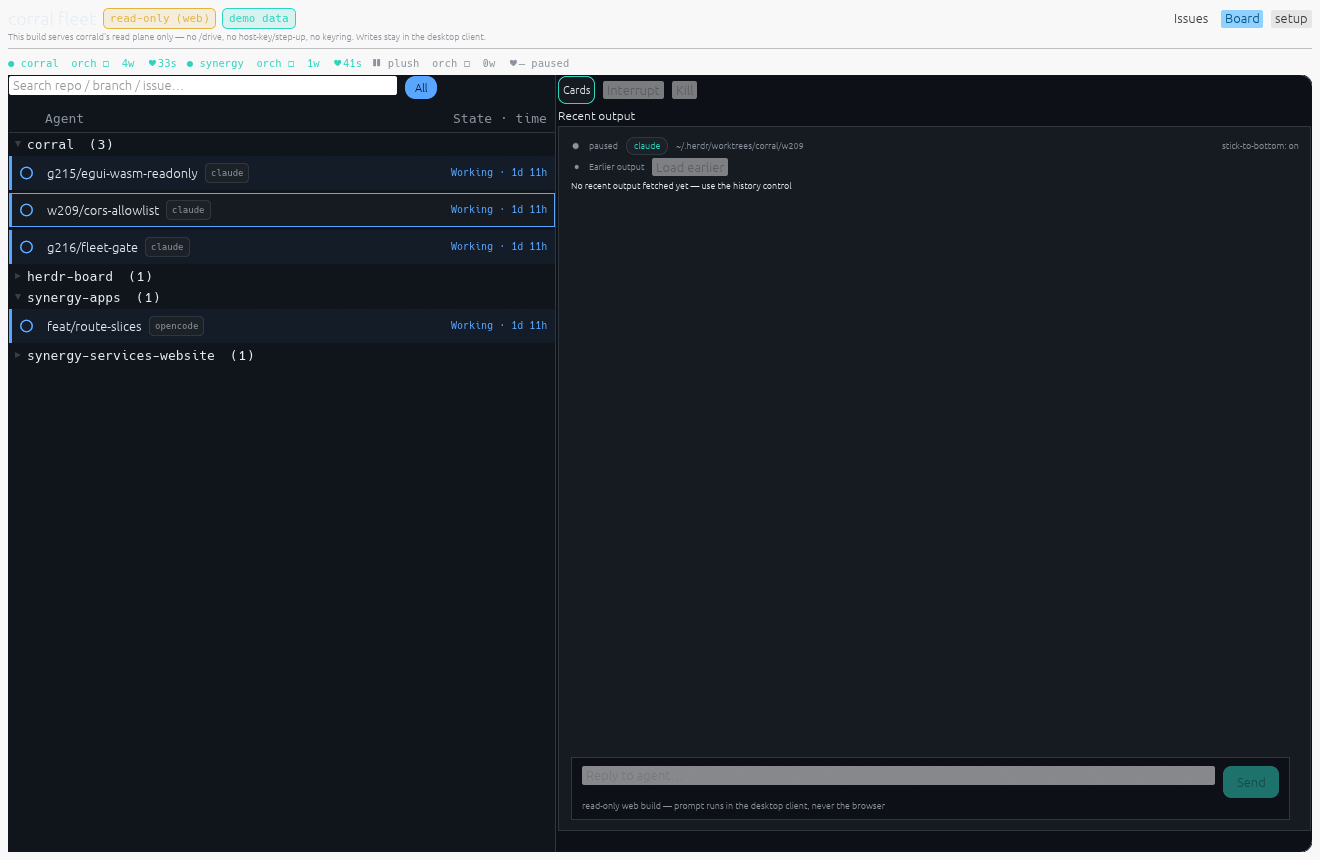
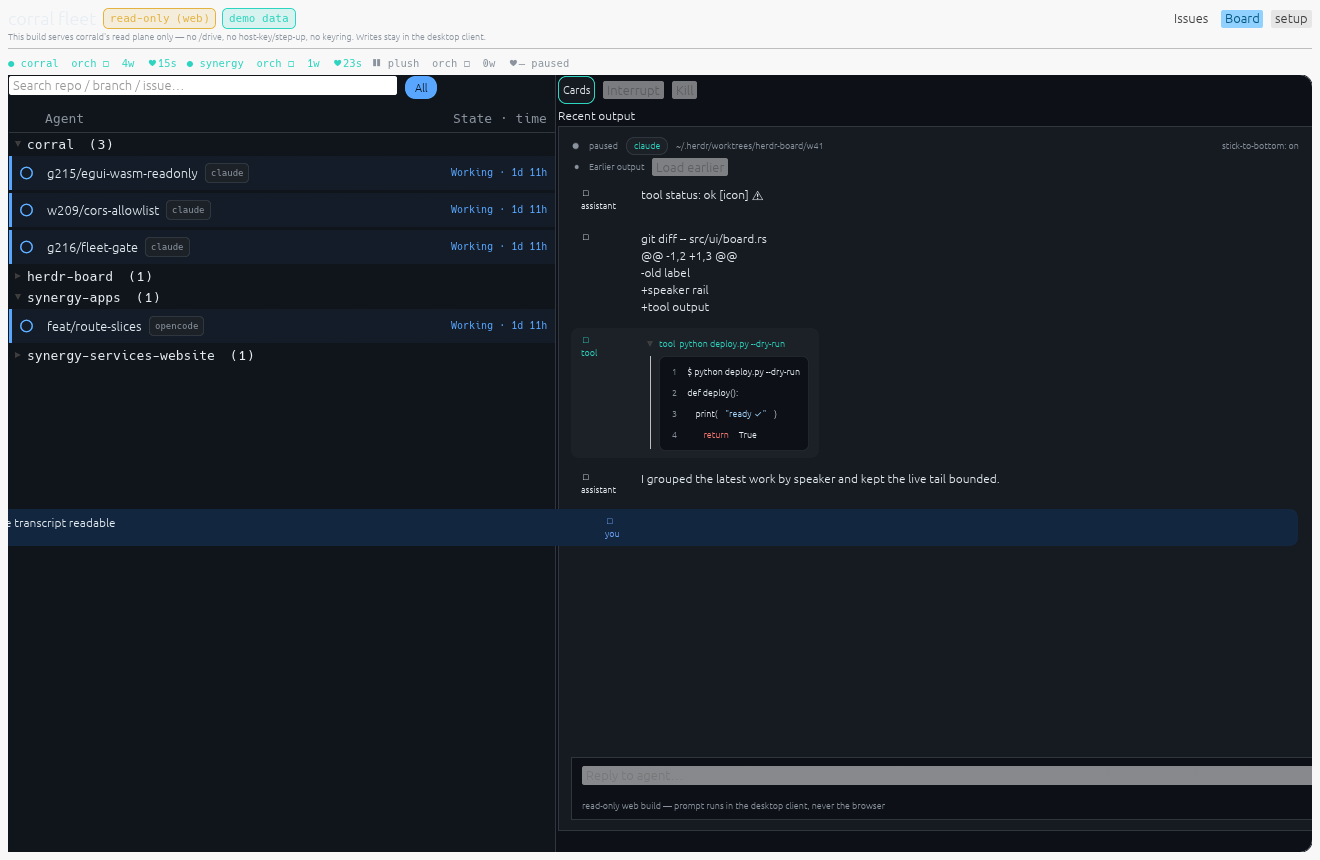
test: add transcript fixture evidence

diff --git a/clients/egui/src/ui/board.rs b/clients/egui/src/ui/board.rs
@@ -1938,57 +1938,67 @@ fn recent_chat_block(
             frame.show(ui, |ui| {
                 ui.horizontal(|ui| {
                     recent_speaker_rail(ui, RecentBlockKind::User, show_label);
-                    ui.vertical(|ui| {
-                        recent_message_lines(ui, text, FontId::proportional(12.0));
-                    });
+                    let content_width = (block_width - style.inset - 62.0).max(40.0);
+                    ui.allocate_ui_with_layout(
+                        egui::vec2(content_width, ui.available_height()),
+                        egui::Layout::top_down(egui::Align::Min),
+                        |ui| {
+                            recent_message_lines(ui, text, FontId::proportional(12.0));
+                        },
+                    );
                 });
             });
         });
     } else {
         frame.show(ui, |ui| {
-            ui.columns(2, |columns| {
-                recent_speaker_rail(&mut columns[0], kind, show_label);
-                let ui = &mut columns[1];
-                ui.set_width(ui.available_width());
-                if style.monospace {
-                    if recent_is_code_or_diff(text) {
-                        CollapsingHeader::new(
-                            RichText::new(format!("tool  {}", recent_tool_summary(text)))
-                                .small()
-                                .strong()
-                                .color(theme::ui::ACCENT),
-                        )
-                        .id_salt(recent_tool_disclosure_id(position))
-                        .default_open(true)
-                        .show(ui, |ui| {
-                            ui.set_max_width((block_width - 40.0).max(40.0));
-                            egui::Frame::NONE
-                                .fill(theme::ui::BG)
-                                .stroke(Stroke::new(1.0, recent_code_line_color()))
-                                .corner_radius(CornerRadius::same(6))
-                                .inner_margin(egui::Margin::symmetric(8, 6))
-                                .show(ui, |ui| {
-                                    for (number, line) in text.split('\n').enumerate() {
-                                        recent_code_line(ui, line, number + 1);
-                                    }
-                                });
-                        });
-                    } else {
-                        ui.horizontal_wrapped(|ui| {
-                            ui.add(
-                                egui::Label::new(
-                                    RichText::new(text)
-                                        .monospace()
+            ui.horizontal(|ui| {
+                recent_speaker_rail(ui, kind, show_label);
+                let content_width = ui.available_width();
+                ui.allocate_ui_with_layout(
+                    egui::vec2(content_width, ui.available_height()),
+                    egui::Layout::top_down(egui::Align::Min),
+                    |ui| {
+                        if style.monospace {
+                            if recent_is_code_or_diff(text) {
+                                CollapsingHeader::new(
+                                    RichText::new(format!("tool  {}", recent_tool_summary(text)))
                                         .small()
-                                        .color(theme::ui::MUTED),
+                                        .strong()
+                                        .color(theme::ui::ACCENT),
                                 )
-                                .wrap(),
-                            );
-                        });
-                    }
-                } else {
-                    recent_message_lines(ui, text, FontId::proportional(12.0));
-                }
+                                .id_salt(recent_tool_disclosure_id(position))
+                                .default_open(true)
+                                .show(ui, |ui| {
+                                    ui.set_max_width((block_width - 40.0).max(40.0));
+                                    egui::Frame::NONE
+                                        .fill(theme::ui::BG)
+                                        .stroke(Stroke::new(1.0, recent_code_line_color()))
+                                        .corner_radius(CornerRadius::same(6))
+                                        .inner_margin(egui::Margin::symmetric(8, 6))
+                                        .show(ui, |ui| {
+                                            for (number, line) in text.split('\n').enumerate() {
+                                                recent_code_line(ui, line, number + 1);
+                                            }
+                                        });
+                                });
+                            } else {
+                                ui.horizontal_wrapped(|ui| {
+                                    ui.add(
+                                        egui::Label::new(
+                                            RichText::new(text)
+                                                .monospace()
+                                                .small()
+                                                .color(theme::ui::MUTED),
+                                        )
+                                        .wrap(),
+                                    );
+                                });
+                            }
+                        } else {
+                            recent_message_lines(ui, text, FontId::proportional(12.0));
+                        }
+                    },
+                );
             });
         });
     }

diff --git a/clients/egui/src/demo.rs b/clients/egui/src/demo.rs
@@ -44,6 +44,41 @@ pub fn load() -> DemoData {
     data
 }
 
+/// Glyph-rich transcript blocks for the static board evidence. The same
+/// daemon scrubber is applied here so demo output exercises the shared tofu
+/// contract without changing live read-tail behavior.
+pub fn recent_tail() -> Vec<String> {
+    [
+        "› make the transcript readable",
+        "I grouped the latest work by speaker and kept the live tail bounded.",
+        "$ python deploy.py --dry-run\ndef deploy():\n    print(\"ready ✅\")\n    return True",
+        "git diff -- src/ui/board.rs\n@@ -1,2 +1,3 @@\n-old label\n+speaker rail\n+tool output",
+        "tool status: ok \u{e000} ⚠",
+    ]
+    .into_iter()
+    .map(scrub_demo_icons)
+    .collect()
+}
+
+fn scrub_demo_icons(line: &str) -> String {
+    let mut output = String::with_capacity(line.len());
+    let mut replaced = false;
+    for character in line.chars() {
+        let private_use = ('\u{e000}'..='\u{f8ff}').contains(&character)
+            || ('\u{f0000}'..='\u{ffffd}').contains(&character)
+            || ('\u{100000}'..='\u{10fffd}').contains(&character);
+        if private_use {
+            if !replaced {
+                output.push_str("[icon]");
+                replaced = true;
+            }
+        } else {
+            replaced = false;
+            output.push(character);
+        }
+    }
+    output
+}
 /// Wall-clock epoch millis that also works on wasm32-unknown-unknown —
 /// `std::time::SystemTime` panics there ("time not implemented"), so the
 /// web build uses `js_sys::Date::now()` (epoch), never the monotonic

diff --git a/clients/egui/src/web.rs b/clients/egui/src/web.rs
@@ -233,6 +233,16 @@ impl WebCorralApp {
             self.fleet.apply_snapshot(&data.snapshot);
             self.fleet.set_issues(Ok(data.issues.clone()));
             self.fleet.set_fleets(Ok(data.fleets.clone()));
+            for agent in data.snapshot.agents.values() {
+                if agent
+                    .capabilities
+                    .iter()
+                    .any(|capability| capability == "read_tail")
+                {
+                    self.fleet
+                        .remember_tail(&agent.agent_id, demo::recent_tail());
+                }
+            }
         }
         self.demo_step = 0;
         self.demo_last = now_ms();

diff --git a/.report.md b/.report.md
@@ -186,7 +186,7 @@ shipped-surface evidence available from this lane.
 - Added red-probe regression coverage for Python/shell detection, diff token colors, rail label transitions, PUA scrubbing, and iOS tool-run grouping.
 - Re-pinned the iOS Release source digest.
 - Captured `docs/design/evidence/issue-271/impl/ios-transcript.png` from an iOS Simulator.
-- Captured `docs/design/evidence/issue-271/impl/board-wasm-1320x860.png` from the compiled wasm board. The capture is a real shipped surface, but the bundled demo fixture has no readable tail for a glyph-rich transcript, so it does not prove the transcript-specific visual state.
+- Captured and verified `docs/design/evidence/issue-271/impl/board-wasm-1320x860.png` from the compiled wasm board. It visibly contains tool and assistant rail labels, a Python block, a diff block, and `[icon]` output in place of a private-use glyph.
 
 ## Gates
 
@@ -208,7 +208,6 @@ shipped-surface evidence available from this lane.
 
 ## Not verified
 
-- The compiled wasm board capture is real, but the bundled demo fixture has no readable tail; `board-wasm-1320x860.png` therefore does not show the required glyph-rich transcript, rail, and highlighted code/diff state.
 - The simulator capture is real, but `-demoMode` opened the Fleet list rather than the recent-output detail surface; it does not prove the iOS transcript visual state.
 - `bash scripts/test-design-gate-egui-integration.sh --publish` still exits 1 before capture because its generated fake fleet-ops fixture is malformed (`list: command not found`, `switch: command not found`, and an unterminated shell fixture).
 - Live-daemon tail rendering and physical-device font rendering were not verified.
